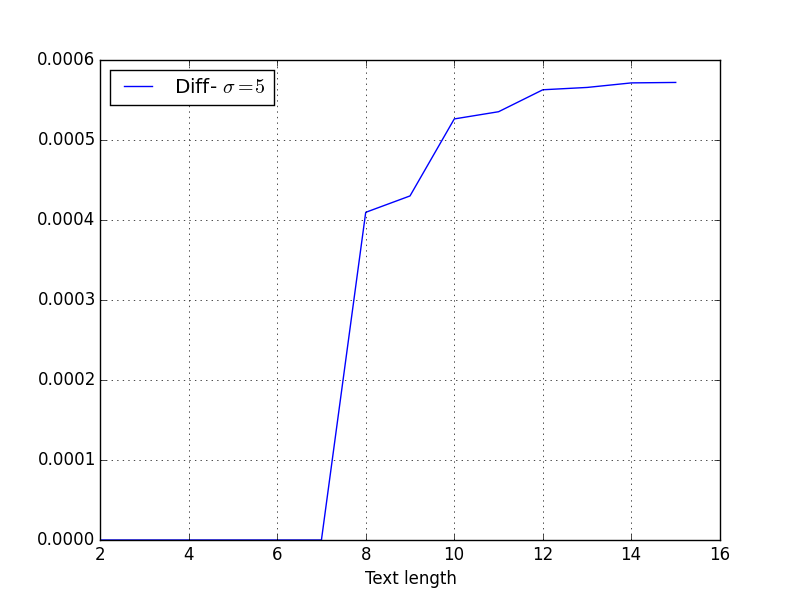
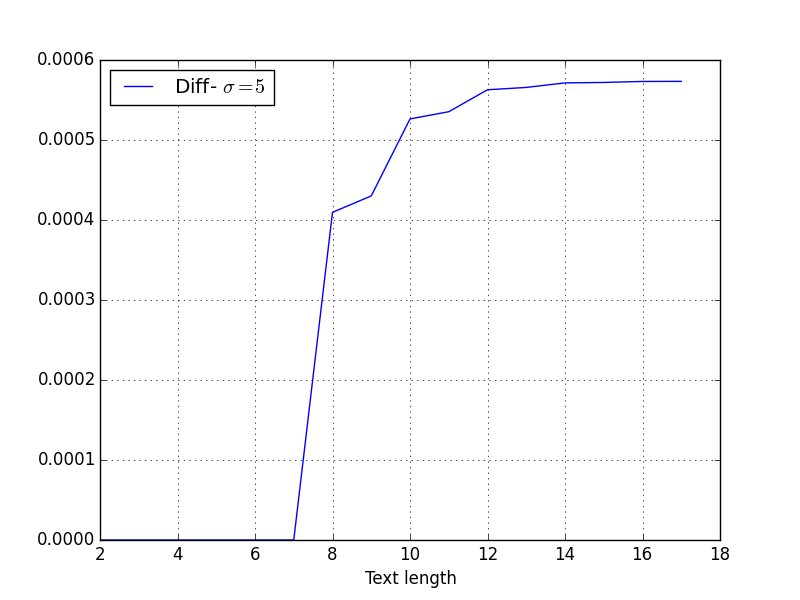
more data for sigma = 5

diff --git a/src/py/graph.py b/src/py/graph.py
@@ -26,14 +26,16 @@ if __name__ == '__main__':
         except StopIteration:
             pass
 
-        for alphabet_size in [2, 3, 5]:
+        for alphabet_size in [5]:
             lengths = sorted(counts[alphabet_size])
             values = map(lambda x: counts[alphabet_size].get(x) * 1.0 / alphabet_size ** x, lengths)
+            print lengths, values
             pl.plot(lengths, values, label='Diff- $\sigma = {}$'.format(alphabet_size))
         pl.legend(loc=2)
         pl.grid()
         pl.xlabel('Text length')
-        pl.savefig('../../results/diff_2_3_5.png')
+        pl.savefig('../../results/diff_5.png')
+        pl.savefig('min_period_max_borderless_diff.png')
 
     # with open('../../result_alphabets_borderless.txt') as fd:
     #     reader = csv.reader(fd, delimiter=' ')
